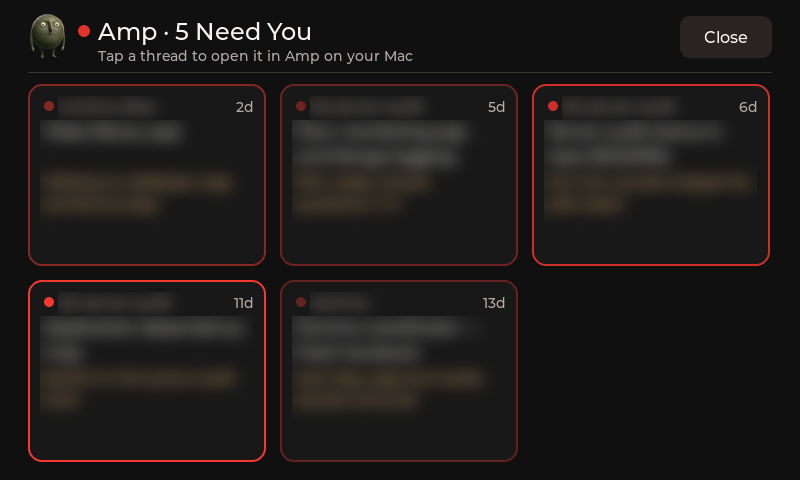
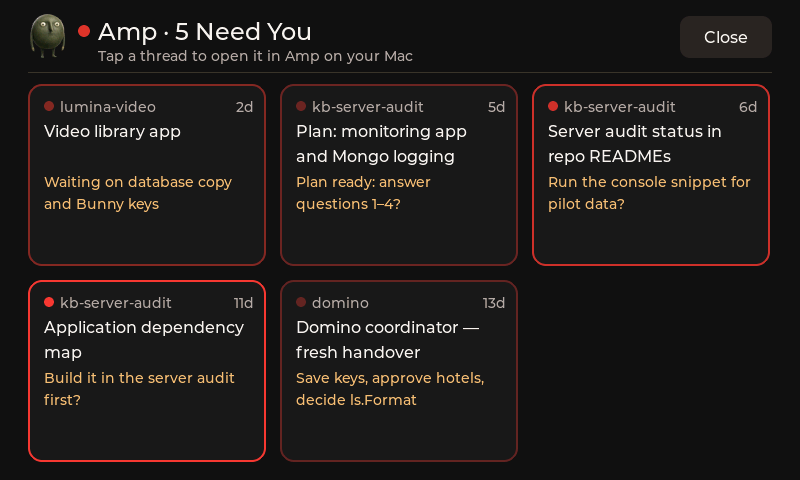
Use unblurred Amp Need-You screenshot, disable App Nap, and remove periodic /health polling

diff --git a/ClawPalMac/Sources/ClawPalCore/CompanionEngine.swift b/ClawPalMac/Sources/ClawPalCore/CompanionEngine.swift
@@ -81,6 +81,7 @@ public final class CompanionEngine: ObservableObject {
     private var mediaPollTask: Task<Void, Never>?
     private var ampPollTask: Task<Void, Never>?
     private var claudeLiveTask: Task<Void, Never>?
+    private var appNapActivity: NSObjectProtocol?
     private var seq: Int = 0
 
     private let wsSession: URLSession = {
@@ -190,6 +191,12 @@ public final class CompanionEngine: ObservableObject {
                 try? await Task.sleep(for: .seconds(30))
             }
         }
+        if appNapActivity == nil {
+            appNapActivity = ProcessInfo.processInfo.beginActivity(
+                options: [.userInitiatedAllowingIdleSystemSleep, .suddenTerminationDisabled],
+                reason: "Streaming 1 Hz live telemetry to ClawPal desk display"
+            )
+        }
         startClaudeLiveTask()
         mainLoopTask = Task { [weak self] in
             await self?.runConnectionLoop()
@@ -234,6 +241,10 @@ public final class CompanionEngine: ObservableObject {
         ampPollTask = nil
         claudeLiveTask?.cancel()
         claudeLiveTask = nil
+        if let token = appNapActivity {
+            ProcessInfo.processInfo.endActivity(token)
+            appNapActivity = nil
+        }
         status = .stopped
         appendLog("Companion paused")
     }
@@ -477,8 +488,19 @@ public final class CompanionEngine: ObservableObject {
         status = .connected(endpoint.host)
         appendLog("Connected to ClawPal at \(endpoint.host)")
 
-        refreshHealth()
-        if !settingsLoaded { refreshDisplaySettings() }
+        // Fetch initial /health and /settings once (sequentially, after WS settles) —
+        // no periodic /health polling needed while the WebSocket is streaming 1 Hz acks.
+        let needSettings = !settingsLoaded
+        Task { [weak self] in
+            try? await Task.sleep(for: .seconds(1.5))
+            guard !Task.isCancelled else { return }
+            self?.refreshHealth()
+            if needSettings {
+                try? await Task.sleep(for: .seconds(1.5))
+                guard !Task.isCancelled else { return }
+                self?.refreshDisplaySettings()
+            }
+        }
 
         let state = SessionState()
         let receiver = Task { [weak self] in
@@ -493,7 +515,6 @@ public final class CompanionEngine: ObservableObject {
         defer { artTask?.cancel() }
 
         let encoder = JSONEncoder()
-        var healthTick = 0
 
         while !Task.isCancelled {
             if state.receiverFailed {
@@ -576,11 +597,6 @@ public final class CompanionEngine: ObservableObject {
                     if result == 404 || result == 405 { artSupported = false }
                     else if result != 200 { artSentId = 0; artRetryAt = Date().addingTimeInterval(30) }
                 }
-            }
-
-            healthTick += 1
-            if healthTick % 60 == 0 {
-                refreshHealth()
             }
 
             try await Task.sleep(for: .seconds(1))
